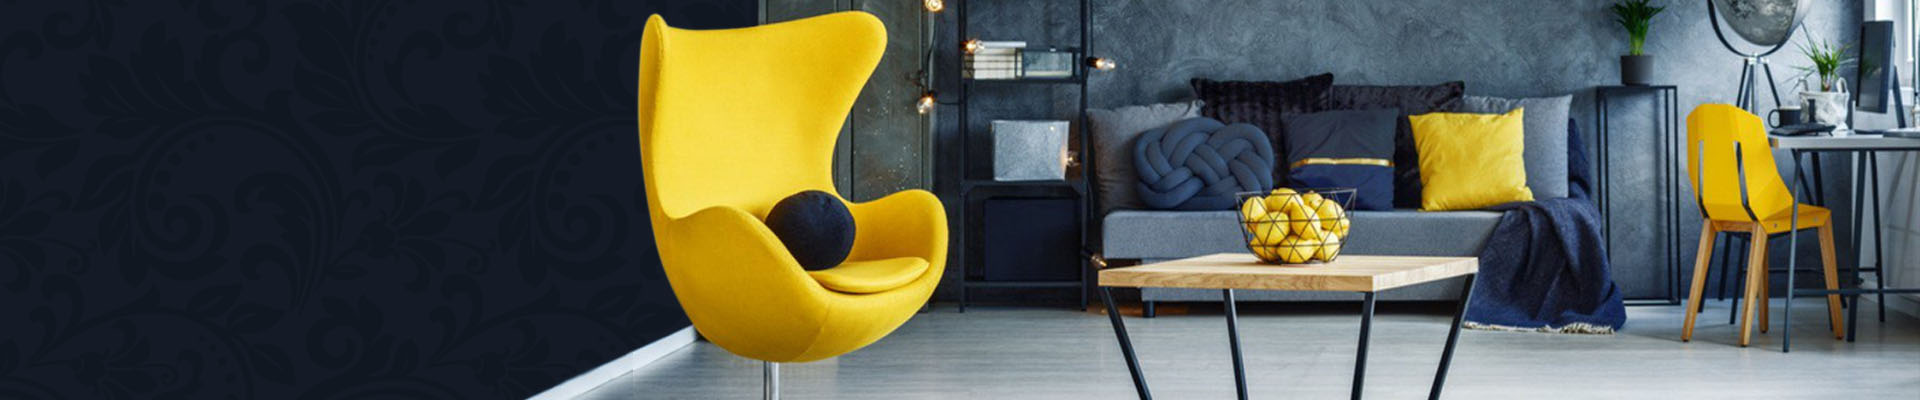
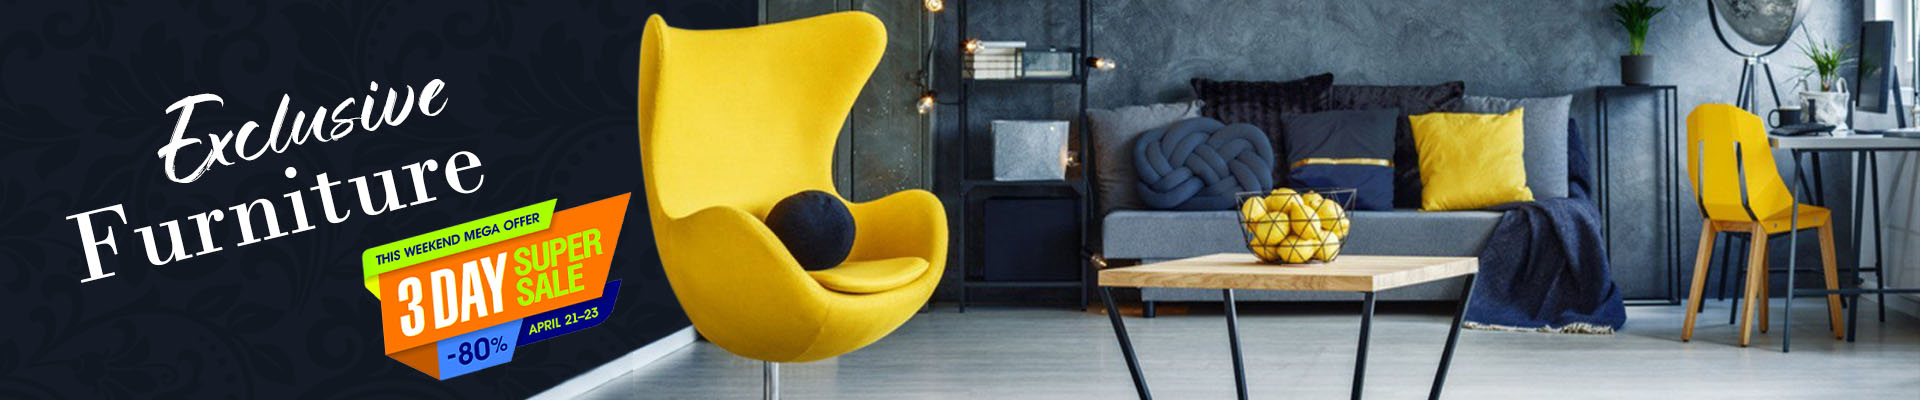
Update button background color to #ffb83c

Changed region(s): [[0.0312, 0.21, 0.25, 0.72], [0.1875, 0.48, 0.3438, 0.96]]

diff --git a/styles/main.css b/styles/main.css
@@ -459,7 +459,7 @@ body {
     /* width: 100%; */
     border: none;
     border-radius: 10px;
-    background: cyan;
+    background: #ffb83c;
     cursor: pointer;
 }
 .price_and_cart {
